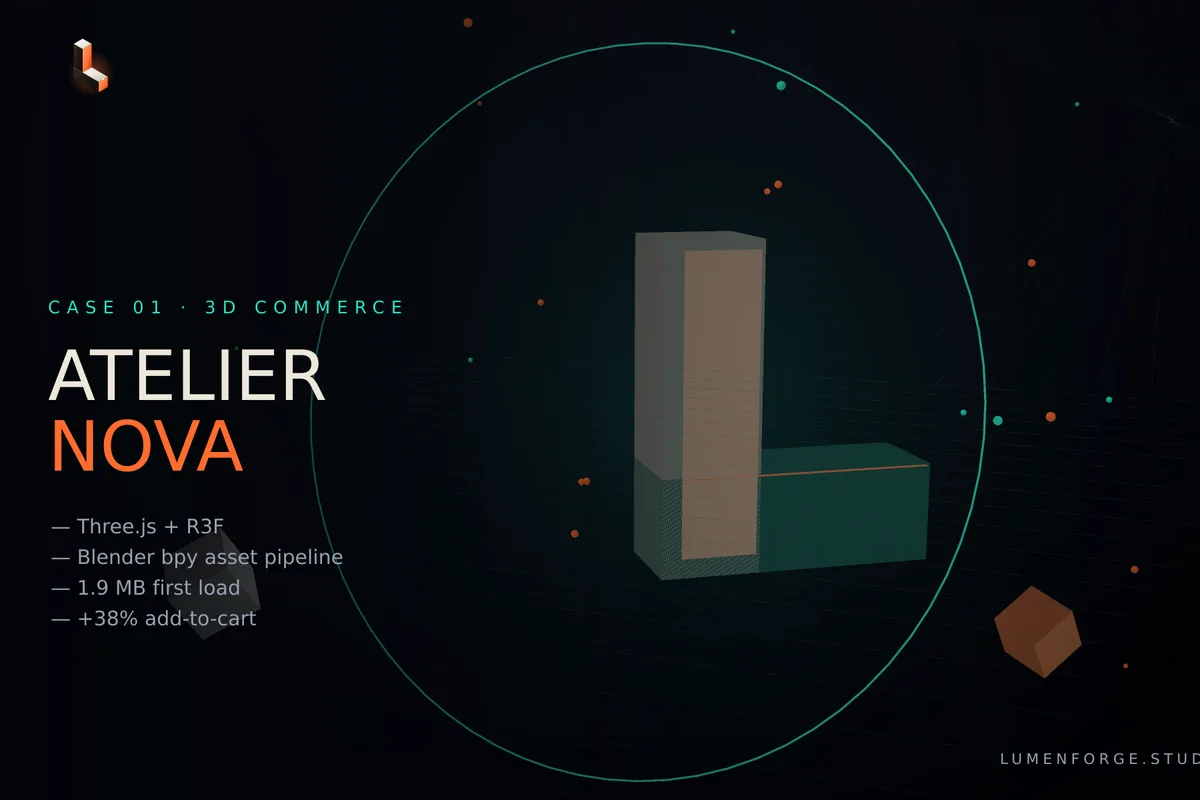
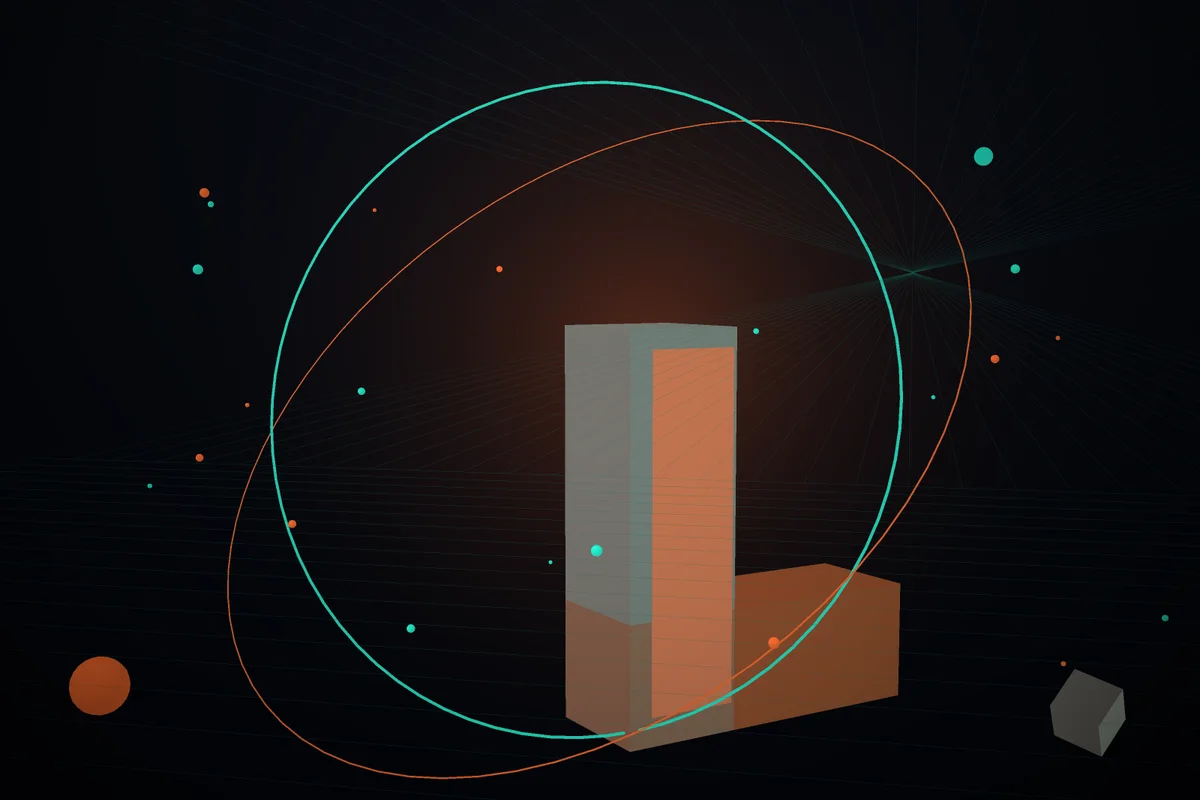
site: clean plates for case cards, real social card, showroom portal frame

diff --git a/studio/site/showroom.js b/studio/site/showroom.js
@@ -73,17 +73,37 @@ for (let i = 0; i < 3; i++) {
   shards.push(m);
 }
 
-/* arch props, to imply a space rather than an empty screen */
-const archMat = new THREE.MeshStandardMaterial({ color: 0x0e121a, metalness: 0.6, roughness: 0.5 });
-[[-4.2, 0], [4.2, 0]].forEach(([x, z]) => {
-  const col = new THREE.Mesh(new THREE.BoxGeometry(0.7, 4.6, 0.7), archMat);
-  col.position.set(x, 0.7, z - 1.5);
-  col.castShadow = true;
-  room.add(col);
-  const cap = new THREE.Mesh(new THREE.BoxGeometry(1.1, 0.16, 1.1), new THREE.MeshStandardMaterial({ color: 0xff6b2c, emissive: 0x2c0a00, metalness: 0.3, roughness: 0.4 }));
-  cap.position.set(x, 3.06, z - 1.5);
-  room.add(cap);
-});
+/* ---------- the portal: two piers + a lintel, framing the hero object ---------- */
+const pierMat = new THREE.MeshStandardMaterial({ color: 0x11151d, metalness: 0.55, roughness: 0.52 });
+const trimMat = new THREE.MeshStandardMaterial({ color: 0xff6b2c, metalness: 0.3, roughness: 0.42, emissive: 0x2c0a00 });
+
+const PORTAL = { x: 3.5, z: -3.6, h: 4.4 };
+for (const sx of [-1, 1]) {
+  const pier = new THREE.Mesh(new THREE.BoxGeometry(0.46, PORTAL.h, 0.46), pierMat);
+  pier.position.set(sx * PORTAL.x, -1.6 + PORTAL.h / 2, PORTAL.z);
+  pier.castShadow = true;
+  room.add(pier);
+
+  // thin forged seam up each pier, the same detail language as the hero mark
+  const seam = new THREE.Mesh(new THREE.BoxGeometry(0.05, PORTAL.h - 0.5, 0.05), trimMat);
+  seam.position.set(sx * (PORTAL.x - 0.24), -1.6 + PORTAL.h / 2, PORTAL.z + 0.24);
+  room.add(seam);
+}
+const lintel = new THREE.Mesh(new THREE.BoxGeometry(PORTAL.x * 2 + 0.46, 0.36, 0.5), pierMat);
+lintel.position.set(0, -1.6 + PORTAL.h, PORTAL.z);
+lintel.castShadow = true;
+room.add(lintel);
+const lintelSeam = new THREE.Mesh(new THREE.BoxGeometry(PORTAL.x * 2 - 0.2, 0.04, 0.52), trimMat);
+lintelSeam.position.set(0, -1.6 + PORTAL.h - 0.16, PORTAL.z);
+room.add(lintelSeam);
+
+// a back wall keeps the room from reading as black void
+const back = new THREE.Mesh(
+  new THREE.PlaneGeometry(18, 9),
+  new THREE.MeshStandardMaterial({ color: 0x080a10, roughness: 0.9, metalness: 0.1 })
+);
+back.position.set(0, 1.4, -6.4);
+room.add(back);
 
 /* ---------- lights ---------- */
 scene.add(new THREE.HemisphereLight(0xfff2e4, 0x070a10, 0.62));
@@ -104,8 +124,8 @@ scene.add(cool);
 
 /* ---------- orbit controls (compact, no addons) ---------- */
 const orbit = {
-  theta: 0.72, phi: 1.12, radius: 8.6,
-  thetaT: 0.72, phiT: 1.12, radiusT: 8.6,
+  theta: 0.55, phi: 1.14, radius: 7.6,
+  thetaT: 0.55, phiT: 1.14, radiusT: 7.6,
   minPhi: 0.45, maxPhi: 1.52, minR: 4.4, maxR: 15,
 };
 let dragging = false, lastX = 0, lastY = 0, idleSpin = true;

diff --git a/studio/site/index.html b/studio/site/index.html
@@ -7,10 +7,12 @@
 <meta name="description" content="LUMENFORGE builds interactive 3D websites with Blender (bpy) asset pipelines, Three.js and React. Launch-ready 3D commerce, real-estate and product sites that load under 2s." />
 <meta property="og:title" content="LUMENFORGE — Websites you can walk through" />
 <meta property="og:description" content="Blender-authored. Three.js-powered. React-native performance." />
-<meta property="og:image" content="assets/hero.webp" />
+<meta property="og:type" content="website" />
+<meta property="og:url" content="https://lumenforge.studio/" />
+<meta property="og:image" content="assets/og-1200x630.jpg" />
 <meta name="theme-color" content="#06070B" />
 <meta name="twitter:card" content="summary_large_image" />
-<meta name="twitter:image" content="assets/hero.webp" />
+<meta name="twitter:image" content="assets/og-1200x630.jpg" />
 <link rel="canonical" href="https://lumenforge.studio/" />
 <link rel="icon" href="assets/favicon.svg" type="image/svg+xml" />
 <link rel="icon" href="assets/favicon-32.png" sizes="32x32" type="image/png" />
